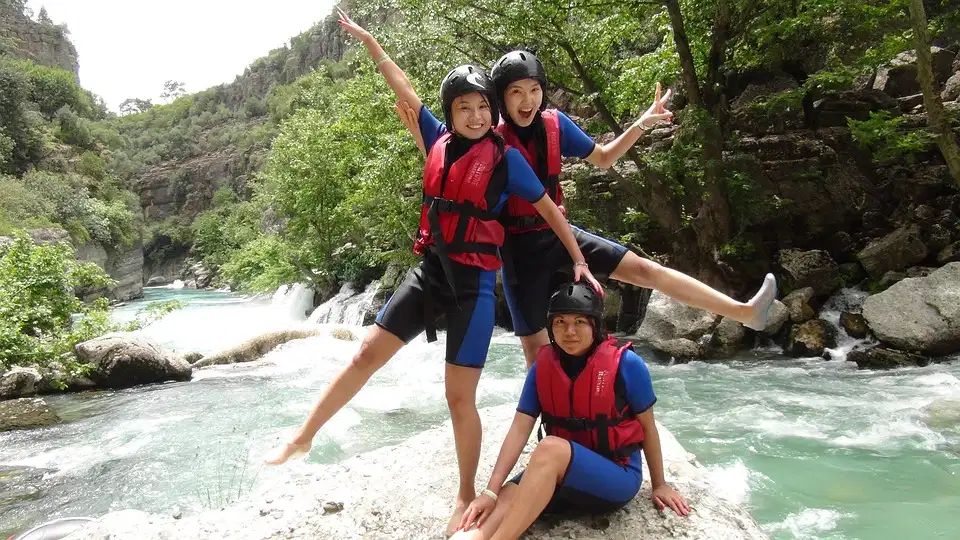
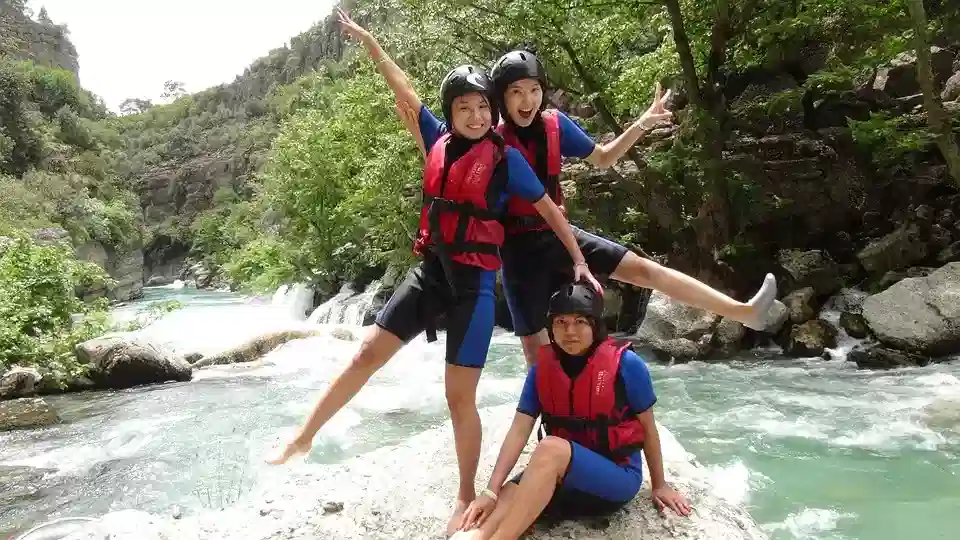
fix weight images

diff --git a/wwr/about.html b/wwr/about.html
@@ -25,7 +25,7 @@
     </header>
     <main>
       <div class="hero">
-        <img src="images/outdoors-lovers.jpg" alt="Otdoors Lovers Image">
+        <img src="images/outdoors-lovers.webp" alt="Otdoors Lovers Image">
         <h1>The Rafting "Outdoors Lovers"</h1>
         <article class="article">
           <img src="images/happy-client.webp" alt="Happy Client Image">
